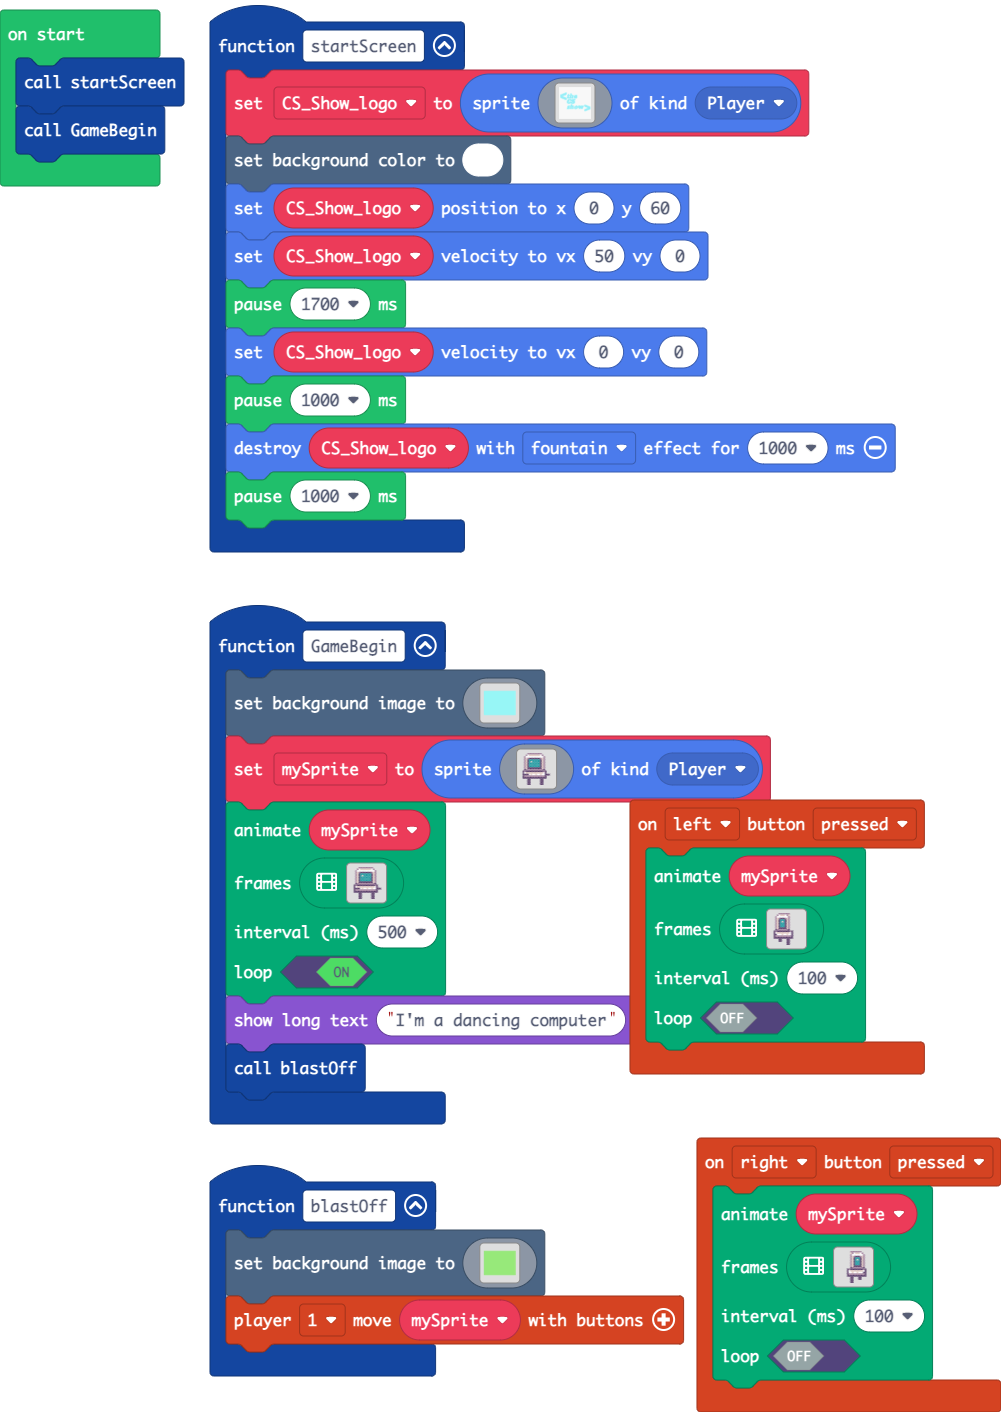
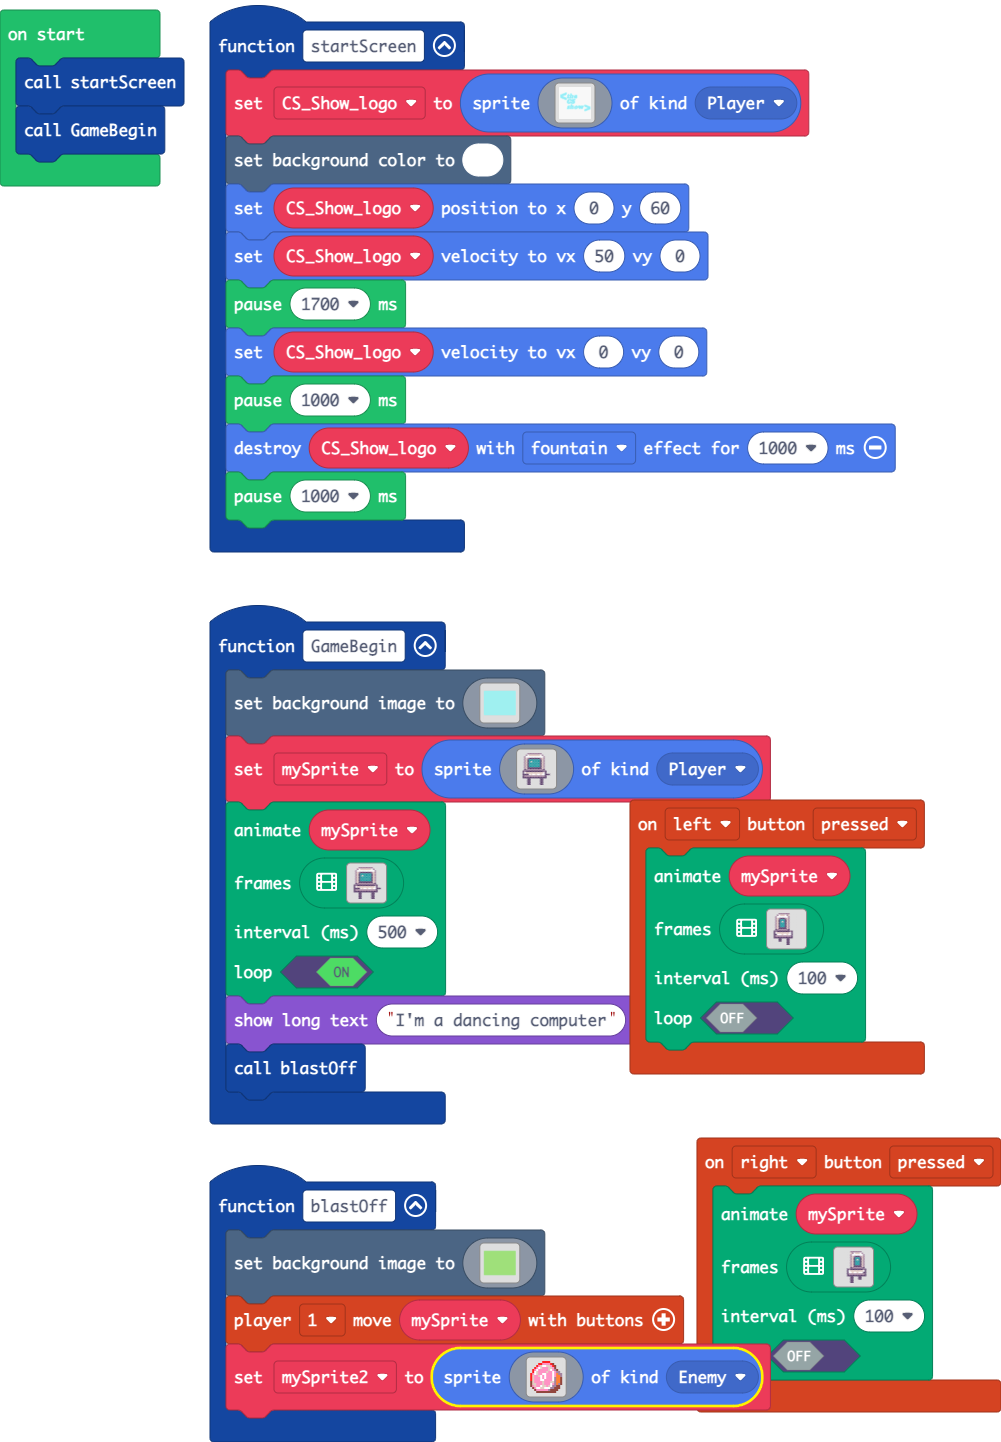
Update main.blocks, main.ts

Changed region(s): [[0.1858, 0.0, 1.0, 1.0], [0.0, 0.0, 0.1858, 0.1558]]

diff --git a/main.ts b/main.ts
@@ -298,6 +298,24 @@ function blastOff () {
         7777777777777777777777777777777777777777777777777777777777777777777777777777777777777777777777777777777777777777777777777777777777777777777777777777777777777777
         `)
     controller.player1.moveSprite(mySprite)
+    mySprite2 = sprites.create(img`
+        . . . . . . 2 2 2 2 . . . . . . 
+        . . . . 2 2 3 3 3 3 2 e . . . . 
+        . . . 2 3 d 1 1 d d 3 2 e . . . 
+        . . 2 3 1 d 3 3 3 d d 3 e . . . 
+        . 2 3 1 3 3 3 3 3 d 1 3 b e . . 
+        . 2 1 d 3 3 3 3 d 3 3 1 3 b b . 
+        2 3 1 d 3 3 1 1 3 3 3 1 3 4 b b 
+        2 d 3 3 d 1 3 1 3 3 3 1 3 4 4 b 
+        2 d 3 3 3 1 3 1 3 3 3 1 b 4 4 e 
+        2 d 3 3 3 1 1 3 3 3 3 1 b 4 4 e 
+        e d 3 3 3 3 d 3 3 3 d d b 4 4 e 
+        e d d 3 3 3 d 3 3 3 1 3 b 4 b e 
+        e 3 d 3 3 1 d d 3 d 1 b b e e . 
+        . e 3 1 1 d d 1 1 1 b b e e e . 
+        . . e 3 3 3 3 3 3 b e e e e . . 
+        . . . e e e e e e e e e e . . . 
+        `, SpriteKind.Enemy)
 }
 function GameBegin () {
     scene.setBackgroundImage(img`
@@ -453,6 +471,7 @@ function GameBegin () {
     game.showLongText("I'm a dancing computer", DialogLayout.Bottom)
     blastOff()
 }
+let mySprite2: Sprite = null
 let CS_Show_logo: Sprite = null
 let mySprite: Sprite = null
 startScreen()
